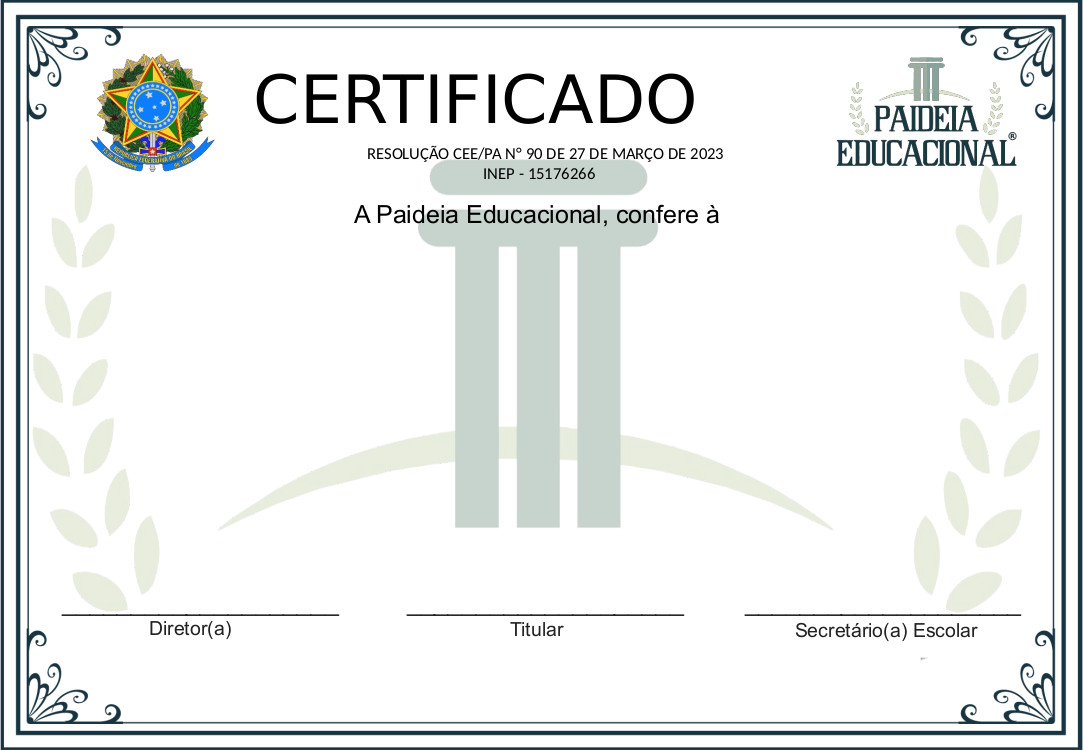
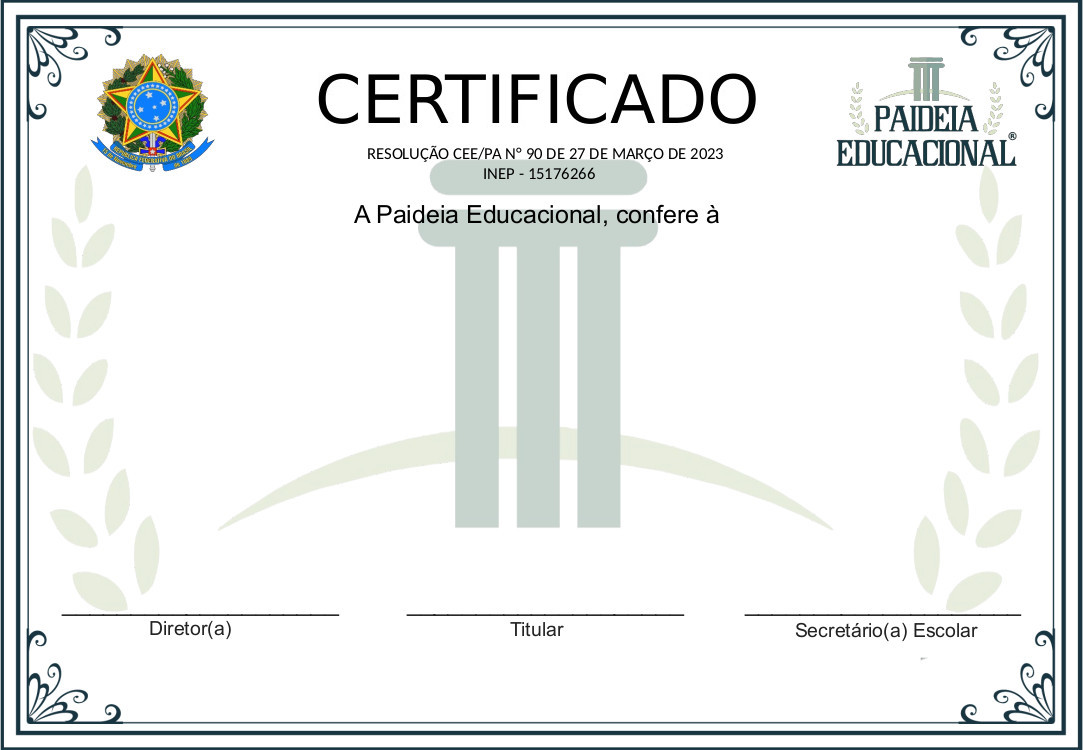
:hammer:Ajustando algumas palavras e alinhando titulo do CERTIFICADO

Changed region(s): [[0.2438, 0.092, 0.7008, 0.184], [0.2133, 0.1227, 0.2438, 0.1533]]

diff --git a/src/views/admin/certificates/CertificateRegister.vue b/src/views/admin/certificates/CertificateRegister.vue
@@ -164,7 +164,7 @@ export default {
         "e outorga-lhe o presente Certificado, por ter concluído em abril de 2023, o Ensino Fundamental - Educação de Jovens e Adultos 3ª e 4ª etapas, dentro das prerrogativas e os direitos estabelecidos nas Leis de Ensino do País.",
       conclusionTextMedio:
         "e outorga-lhe o presente Certificado, por ter concluído em abril de 2023, o Ensino Médio - Educação de Jovens e Adultos 1ª e 2ª etapas, dentro das prerrogativas e os direitos estabelecidos nas Leis de Ensino do País.",
-      textWithCode: "Código do certificado: ",
+      textWithCode: "Código de validação: ",
       textBack:
         "Certificado Registrado sob nº 03\nNo Livro nº 1 Folha nº 01\nEm 08 de maio de 2023",
       obsBack: "",
@@ -177,7 +177,7 @@ export default {
         this.item.naturalness
       }, Pará, nascido(a) em ${this.displayDateInFull(
         this.item.birth_date
-      )}, CPF ${this.item.cpf}, RG ${this.item.rg}`;
+      )}, CPF ${this.item.cpf}`;
     },
     createdAt() {
       const currentDate = new Date();

diff --git a/src/views/admin/historys/HistoryRegister.vue b/src/views/admin/historys/HistoryRegister.vue
@@ -442,6 +442,15 @@ export default {
   font-size: 12px;
 }
 
+.pdfContent.active input {
+	border: none;
+	background: none;
+	padding: 0;
+	margin: 0;
+	outline: none;
+  text-align: center;
+}
+
 .code{
 	position: absolute;
 	top: 0;
